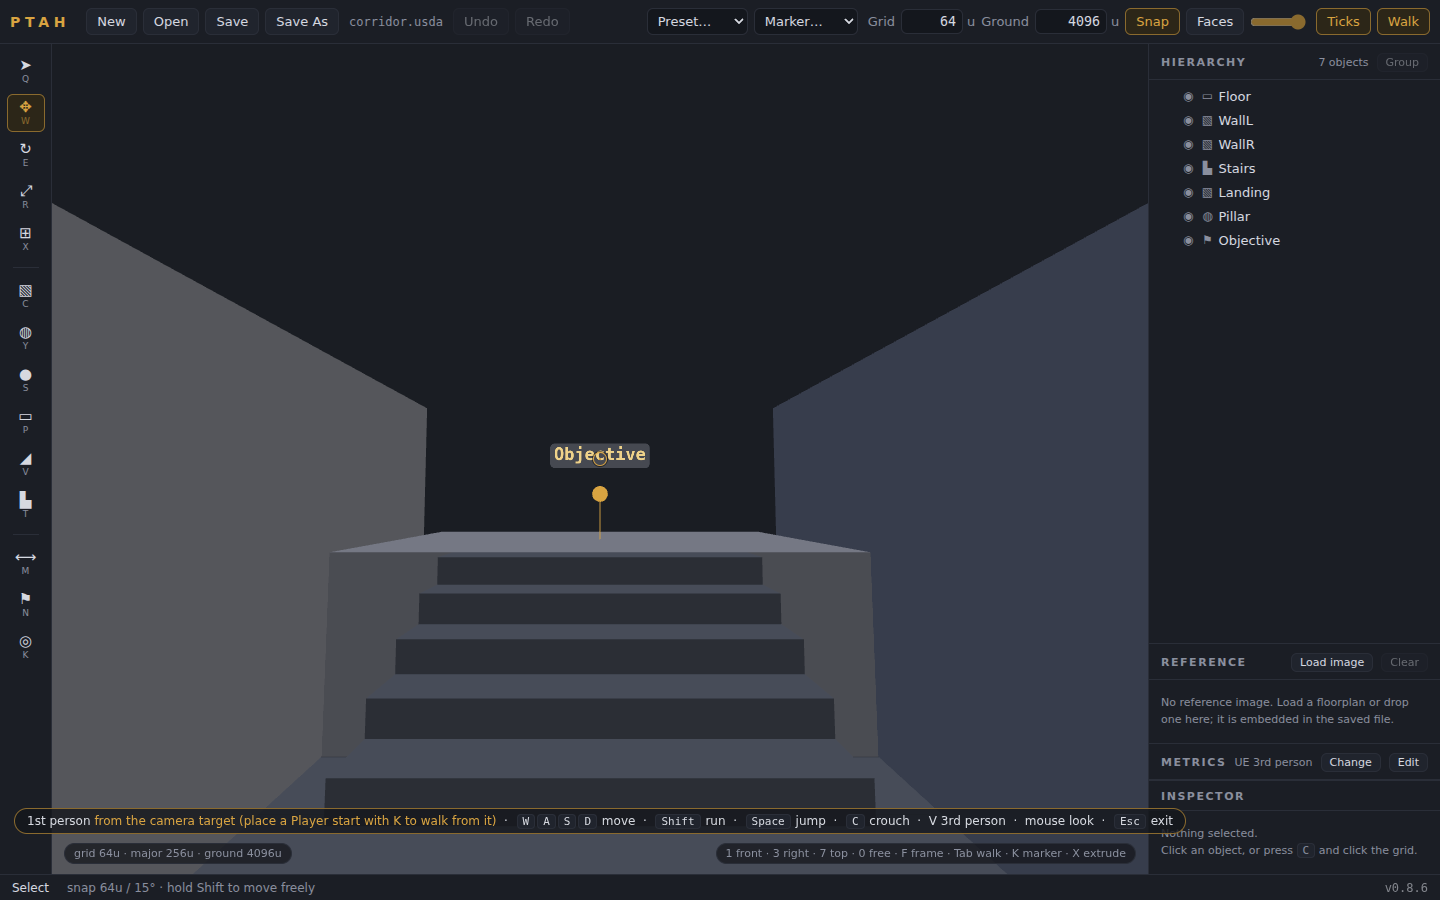
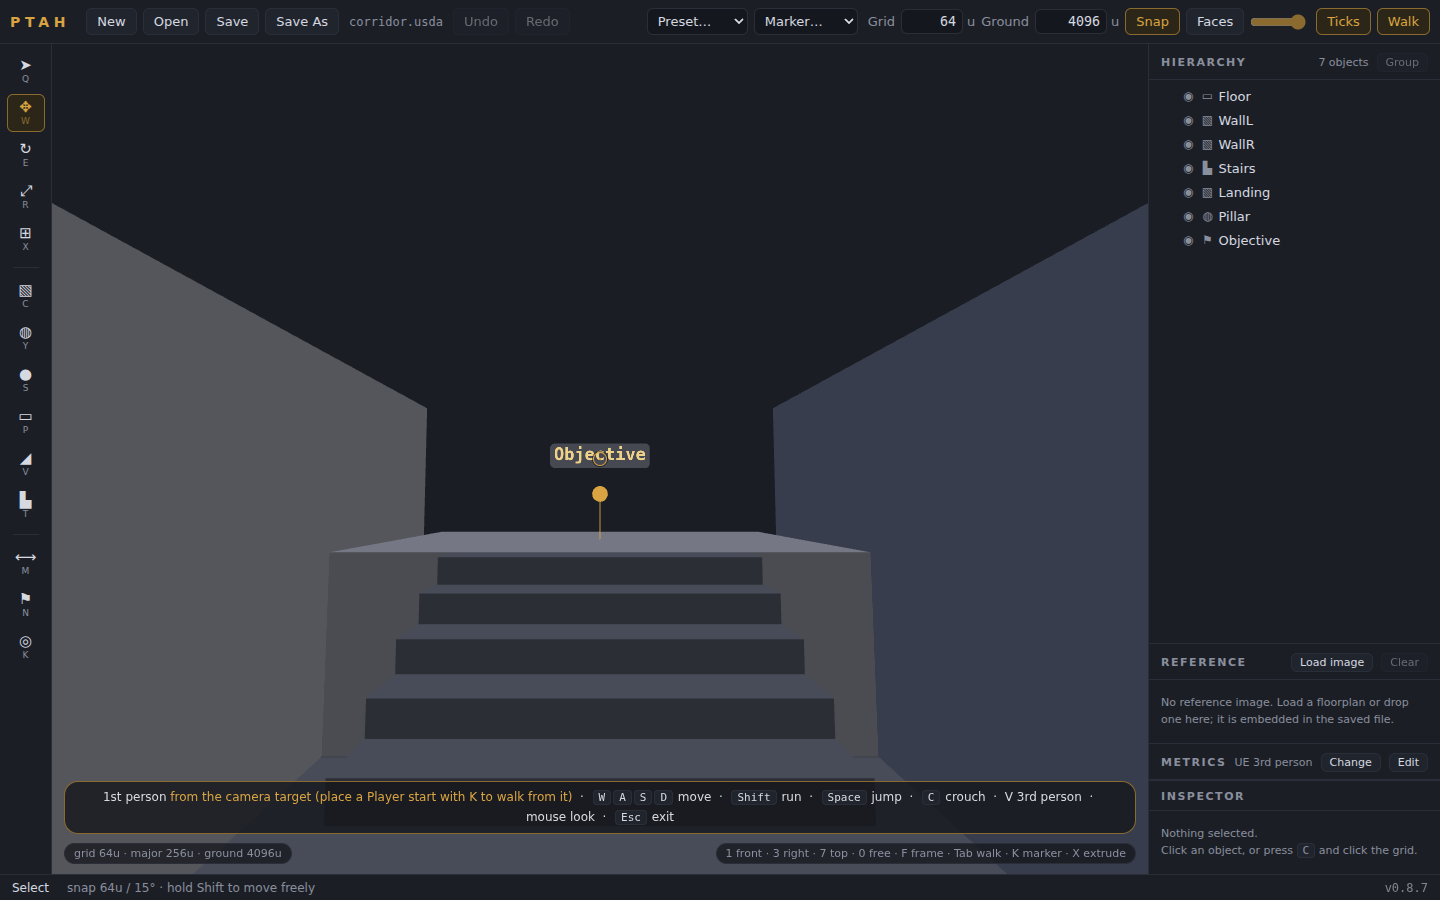
Keep the walk-mode hint bar inside the viewport; release 0.8.7
The hint was one nowrap line centred on the viewport; at common window
widths it ran past the 3D view and covered the top of the Inspector
(43 px each side at 1024 px). It is now capped at the viewport width
and wraps, with 'mouse look' kept together. A browser E2E step checks
it fits at 1024 and 1440 px (it fails on the old CSS).

Version 0.8.7 (with the ownership change); changelog, HANDOFF and the
README screenshots updated.

Claude-Session: https://claude.ai/code/session_017HzL5oXF9qhkNcayGWcZRZ

Changed region(s): [[0.0, 0.84, 0.4688, 0.9333], [0.4688, 0.84, 0.8125, 0.9333]]

diff --git a/renderer/index.html b/renderer/index.html
@@ -129,7 +129,7 @@
         <div id="view-hints" class="viewport-chip right">1 front · 3 right · 7 top · 0 free · F frame · Tab walk · K marker · X extrude</div>
         <div id="walk-hud" class="hidden">
           <div class="crosshair"></div>
-          <div class="walk-hint"><span id="walk-view">Walk</span> <span id="walk-from" class="walk-from"></span> &nbsp;·&nbsp; <kbd>W</kbd><kbd>A</kbd><kbd>S</kbd><kbd>D</kbd> move &nbsp;·&nbsp; <kbd>Shift</kbd> run &nbsp;·&nbsp; <kbd>Space</kbd> jump &nbsp;·&nbsp; <kbd>C</kbd> crouch &nbsp;·&nbsp; <span id="walk-view-key"></span> &nbsp;·&nbsp; mouse look &nbsp;·&nbsp; <kbd>Esc</kbd> exit</div>
+          <div class="walk-hint"><span id="walk-view">Walk</span> <span id="walk-from" class="walk-from"></span> &nbsp;·&nbsp; <kbd>W</kbd><kbd>A</kbd><kbd>S</kbd><kbd>D</kbd> move &nbsp;·&nbsp; <kbd>Shift</kbd> run &nbsp;·&nbsp; <kbd>Space</kbd> jump &nbsp;·&nbsp; <kbd>C</kbd> crouch &nbsp;·&nbsp; <span id="walk-view-key"></span> &nbsp;·&nbsp; mouse&nbsp;look &nbsp;·&nbsp; <kbd>Esc</kbd> exit</div>
         </div>
         <div id="recover-bar" class="hidden">
           <span id="recover-text"></span>

diff --git a/renderer/style.css b/renderer/style.css
@@ -192,10 +192,15 @@ button:focus-visible { outline: 2px solid var(--gold); outline-offset: 1px; }
   padding: 5px 12px;
   background: rgba(20, 22, 27, 0.8);
   border: 1px solid var(--gold-dim);
-  border-radius: 20px;
+  border-radius: 14px;
   color: var(--text);
   font-size: 12px;
-  white-space: nowrap;
+  /* stay inside the viewport: wrap rather than run under the side panels */
+  width: max-content;
+  max-width: calc(100% - 24px);
+  box-sizing: border-box;
+  text-align: center;
+  line-height: 1.7;
 }
 #walk-hud kbd { margin: 0 1px; }
 

diff --git a/renderer/js/app.js b/renderer/js/app.js
@@ -29,7 +29,7 @@ import { createReference } from './reference.js';
 // 1. Constants & state
 // ============================================================================
 
-const APP_VERSION = '0.8.6';
+const APP_VERSION = '0.8.7';
 // Ground: the drawn grid is at least groundSize wide (a per-level setting,
 // saved in the file) and doubles as needed to cover whatever is built.
 const GROUND_DEFAULT = 4096;

diff --git a/HANDOFF.md b/HANDOFF.md
@@ -37,9 +37,9 @@ docs/                 importing.md (engine notes), level-designer-gap-analysis.m
 
 If you are handing this to Claude on another account, say something like "continue work on Ptah, project files attached" and upload the repo (or just the zip). README, CONTRIBUTING and this file are enough context to pick up without re-deriving decisions.
 
-## Where things stand: v0.8.6
+## Where things stand: v0.8.7
 
-0.8.6 replaces the Mixamo mannequin with an original one generated by `tools/mannequin/build-mannequin.mjs`, adds a run clip that walk mode picks by speed, and so closes the Mixamo licence question. 0.8.5 fixes one more file-handling bug from the same review: in Chrome and Edge, an Open whose import failed left Ptah holding the other file, so Save could overwrite it; the web platform's `openUsd` now returns an `adopt()` the app calls only after a successful import. 0.8.4 fixes three races found by an external review of 0.8.3: a save finishing after New or Open no longer renames or cleans the new level, Save As pressed during a save is queued instead of dropped, and a reference image still decoding is dropped when the level or the image choice changes. 0.8.3 versions everything the web build loads per deploy, matches Unity markers by prim path (and compiles the Unity script in CI with mono), frees GPU memory held by objects that drop out of undo history, and reframes the docs for level designers generally. 0.8.2 fixes what a full code review of 0.8.1 found (about 40 items across the editor, the USD reader, the Electron shell, the engine scripts and CI) plus the first/third-person switch; `CHANGELOG.md` has the list. 0.8.1 was a fix release on top of 0.8.0: walk-mode collision with markers, the origin capsule during a walk, ground-size edge cases, test hardening, and a release workflow that can create its own tag. `CHANGELOG.md` has the list. Everything below about 0.8.0 still holds.
+0.8.7 makes Ptah Levi Sterling's project (LICENSE, package metadata and docs; the app identifier is now `com.levi-sterling.ptah`) and keeps the walk-mode hint bar inside the viewport. 0.8.6 replaces the Mixamo mannequin with an original one generated by `tools/mannequin/build-mannequin.mjs`, adds a run clip that walk mode picks by speed, and so closes the Mixamo licence question. 0.8.5 fixes one more file-handling bug from the same review: in Chrome and Edge, an Open whose import failed left Ptah holding the other file, so Save could overwrite it; the web platform's `openUsd` now returns an `adopt()` the app calls only after a successful import. 0.8.4 fixes three races found by an external review of 0.8.3: a save finishing after New or Open no longer renames or cleans the new level, Save As pressed during a save is queued instead of dropped, and a reference image still decoding is dropped when the level or the image choice changes. 0.8.3 versions everything the web build loads per deploy, matches Unity markers by prim path (and compiles the Unity script in CI with mono), frees GPU memory held by objects that drop out of undo history, and reframes the docs for level designers generally. 0.8.2 fixes what a full code review of 0.8.1 found (about 40 items across the editor, the USD reader, the Electron shell, the engine scripts and CI) plus the first/third-person switch; `CHANGELOG.md` has the list. 0.8.1 was a fix release on top of 0.8.0: walk-mode collision with markers, the origin capsule during a walk, ground-size edge cases, test hardening, and a release workflow that can create its own tag. `CHANGELOG.md` has the list. Everything below about 0.8.0 still holds.
 
 0.8.0 comes out of a full code review of 0.7.3 (the commits cite review item codes such as E1 and F3). It adds one level setting, makes the editor keyboard-usable, and hardens import, saving and the Electron shell. `CHANGELOG.md` has the full list. The parts a maintainer needs to know:
 

diff --git a/CHANGELOG.md b/CHANGELOG.md
@@ -1,6 +1,9 @@
 # Changelog
 
-## Unreleased
+## 0.8.7 (2026-09-26)
+
+### Fixed
+- **The walk-mode hint bar ran under the Inspector.** On a normal-width window its one long line spilled past the 3D view and covered the top of the right-hand panel. It now wraps inside the view.
 
 ### Changed
 - **Ptah is now Levi Sterling's project.** The licence (still MIT), the app's copyright and author metadata and the docs name Levi Sterling as owner and maintainer; references to the previous institutional owner are removed. The desktop app's identifier changes from `edu.smu.guildhall.ptah` to `com.levi-sterling.ptah`, so on Windows the next installer installs alongside an existing copy instead of upgrading it; uninstall the old one once. Saved files and autosaves are unaffected.
